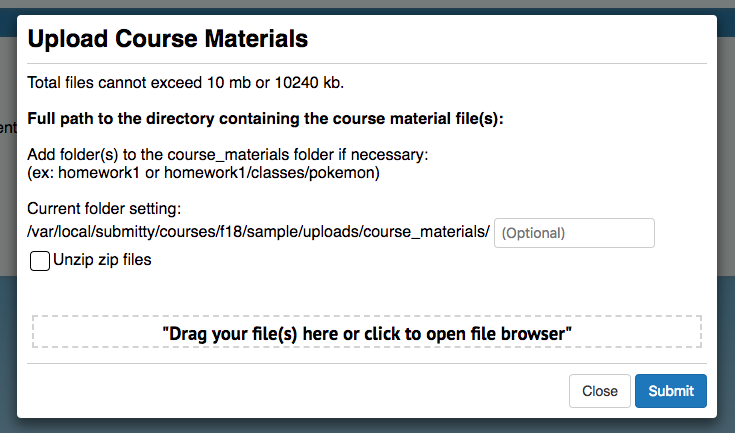
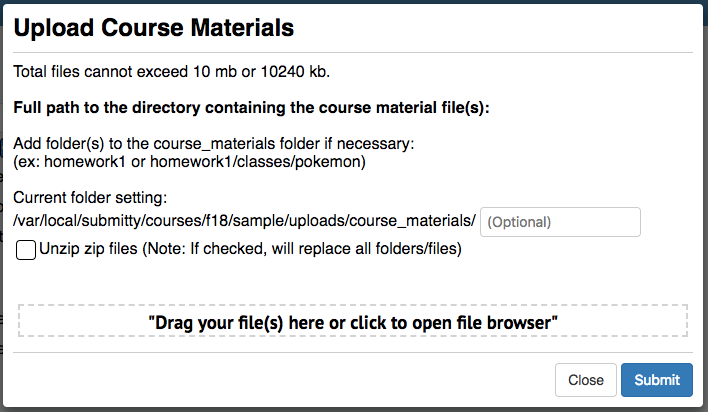
More changes to student photos and course materials

Changed region(s): [[0.0, 0.0, 1.0, 1.0]]

diff --git a/_docs/instructor/student_photos.md b/_docs/instructor/student_photos.md
@@ -16,7 +16,8 @@ the students in the registration sections they are assigned to.
 * Without Photos:  
   ![](/images/student_photos_empty_pic.png)  
 
-* Uploaded Photos:  
+* Photos Uploaded:  
+  _Note: Please use Google Chrome_  
   ![](/images/student_photos_uploaded_pic.png)  
 
 * ![](/images/student_photos_upload_button.png)  
@@ -25,7 +26,8 @@ the students in the registration sections they are assigned to.
   ![](/images/student_photos_upload_form.png)  
   PNG Images or zip files of PNG images can be dragged-and-dropped or added by
   clicking in the box. They cannot exceed 10 mb or 10240 kb.
-  After hitting submit, please wait a couple seconds and then refresh the page.
+  After hitting submit, if it does not automatically refresh after a couple seconds,
+  please refresh the page.
 
 
 

diff --git a/_docs/instructor/course_materials.md b/_docs/instructor/course_materials.md
@@ -38,7 +38,7 @@ students can download the files or click on the pop-up window icon to view the f
       By default, all files will be uploaded to course_materials (the main directory level).
       However, there is an option that allows the instructor to add any sub-directories they wish.
 
-    * ![](/images/course_materials_unzip_checkbox.png)  
+    * ![](/images/course_materials_checkbox.png)  
       By default, this checkbox is unchecked. Clicking on it will unzip any zip files added into the box.
 
     * ![](/images/drag_and_drop.png)  
